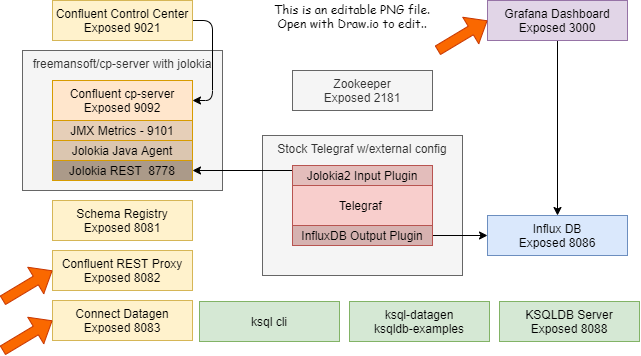
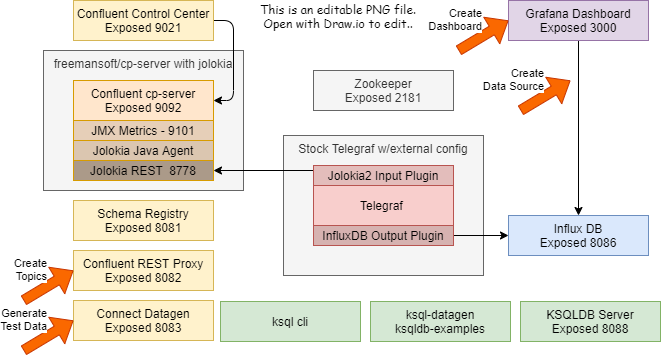
Docs updated after YouTube

diff --git a/quickstart/README.md b/quickstart/README.md
@@ -1,7 +1,10 @@
-## quickstart
+This directory sets up the topic and test data side of the 
+[Confluent Docker quickstart](https://docs.confluent.io/current/quickstart/ce-docker-quickstart.html#ce-docker-quickstart)
+in a series of scripts.  It then adds on metrics generation and capture , _Jolokia/Telegraf_ and a monitoring dashboard in _Grafana_.  This does not include the _Kafak Streams_ or _ksqlDB_ portion of the quick start.
+
 Scripts in this folder let you run the Kafka quick start.
-* Create users and pagviews topics
-* Create the quickstart data generator as a kafka connector.
+* Create Kafka topics called _users_ and _pagviews_
+* Create data generator using the Kafka Connect data generator/connector.
 * Use the quickstart user/pageview data generator to create traffic Kafka traffic
 * Create a Grafana database source that points at the metrics in influxdb
 * Create a Grafana dashboard that displayes a couple metrics.
